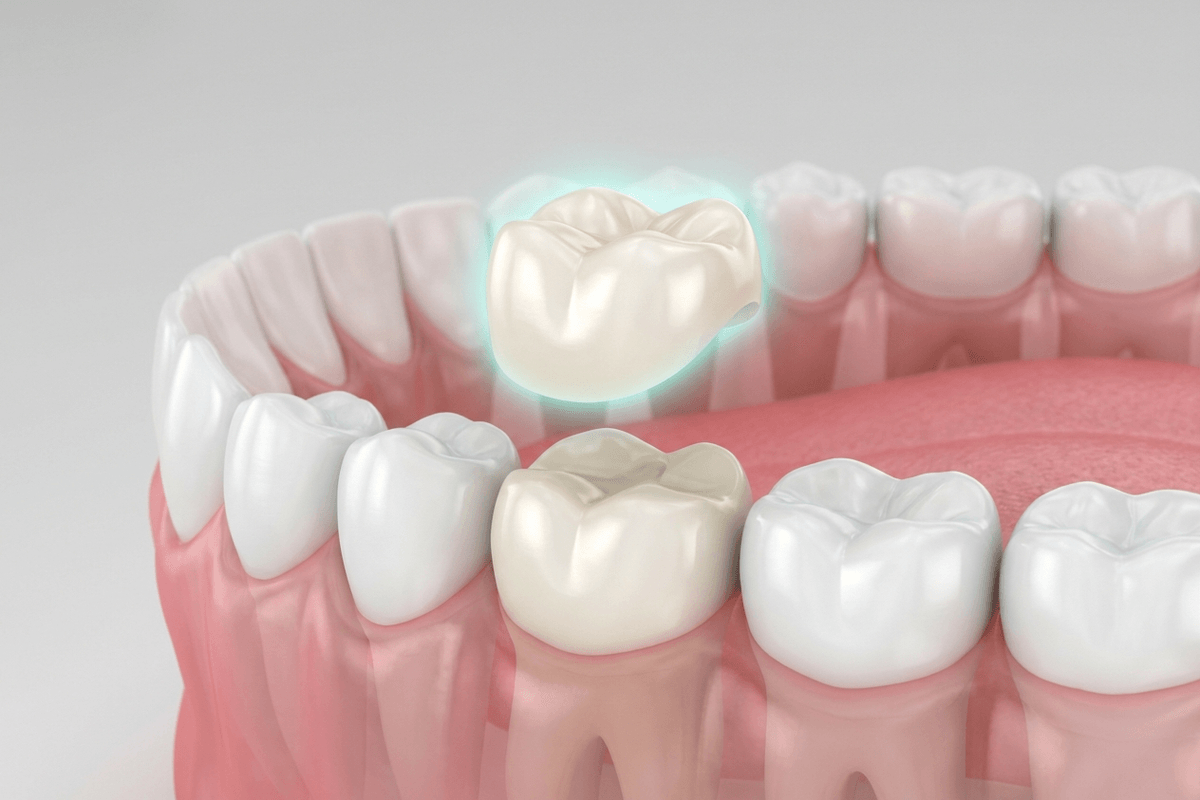
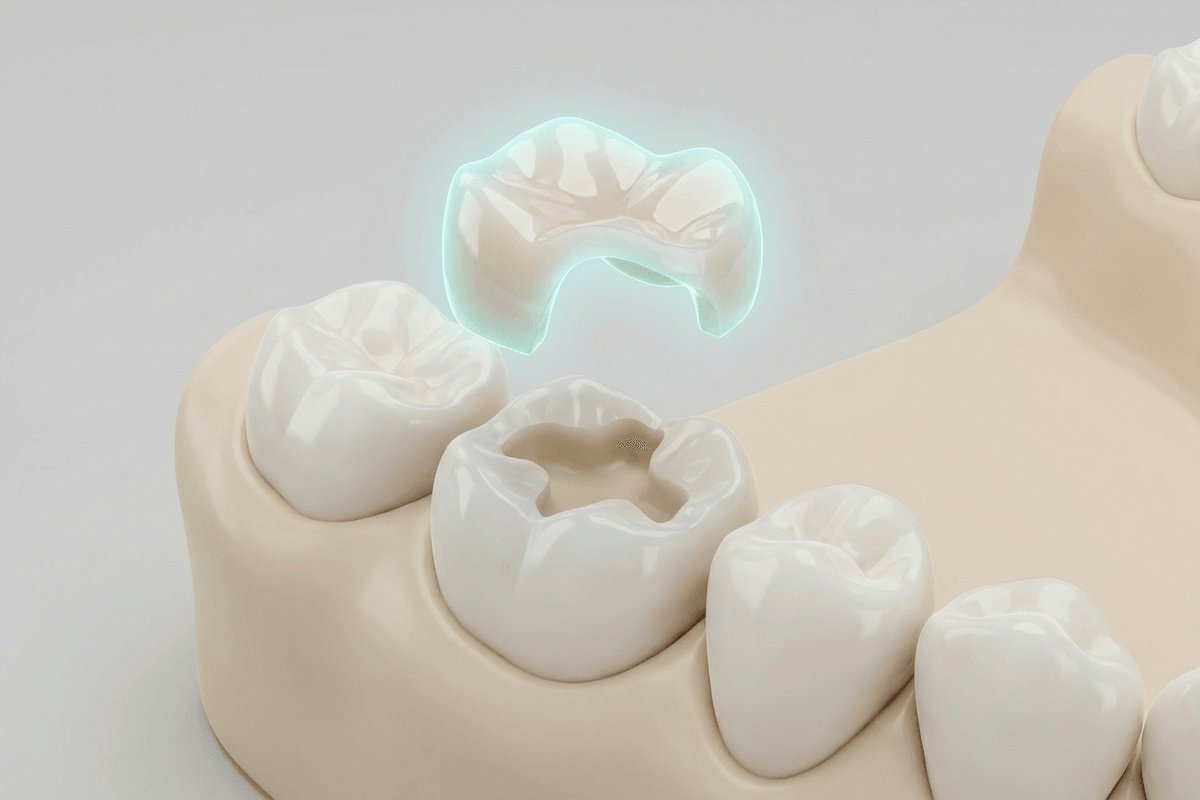
feat(services): regenerate 6 illustrations + 2 new-service renders (#10,12,16,17,21,23)
Nano Banana Pro regens, style-matched to the educational set (3:2, 1200×800):
- onlays: clearly a partial-coverage piece over a prepared tooth (was reading
  as a full crown)
- dentures: removable partial denture with clasp framework (client asked for
  a partial denture image)
- crown-lengthening: recontoured gum margin exposing more tooth structure
- gingivectomy: laser trimming tissue at the gingival margin (old image had
  the gum drawn on the biting edge)
- custom-orthotic-device: splint on an upper arch (was a lower arch)
- oral-cancer-shields: beam absorbed into the shield with jaw positioning
  (was showing reflection); regenerated once to strip baked-in text
- new: myofascial-pain-therapy (highlighted jaw muscles + manual therapy) and
  ultrasound-guided-procedures (probe-guided needle + scan monitor), both
  registered in the illustration allowlist

diff --git a/content/service-images.ts b/content/service-images.ts
@@ -32,6 +32,7 @@ export const SERVICE_ILLUSTRATION_SLUGS: ReadonlySet<string> = new Set([
   'frenectomy',
   'gingivectomy',
   'implants',
+  'myofascial-pain-therapy',
   'neuropathic-pain',
   'occlusal-splints',
   'onlays',
@@ -53,6 +54,7 @@ export const SERVICE_ILLUSTRATION_SLUGS: ReadonlySet<string> = new Set([
   'tmj',
   'tongue-tie-release',
   'trigger-point-injections',
+  'ultrasound-guided-procedures',
 ]);
 
 /** Intrinsic aspect ratio of every generated illustration (3:2). */